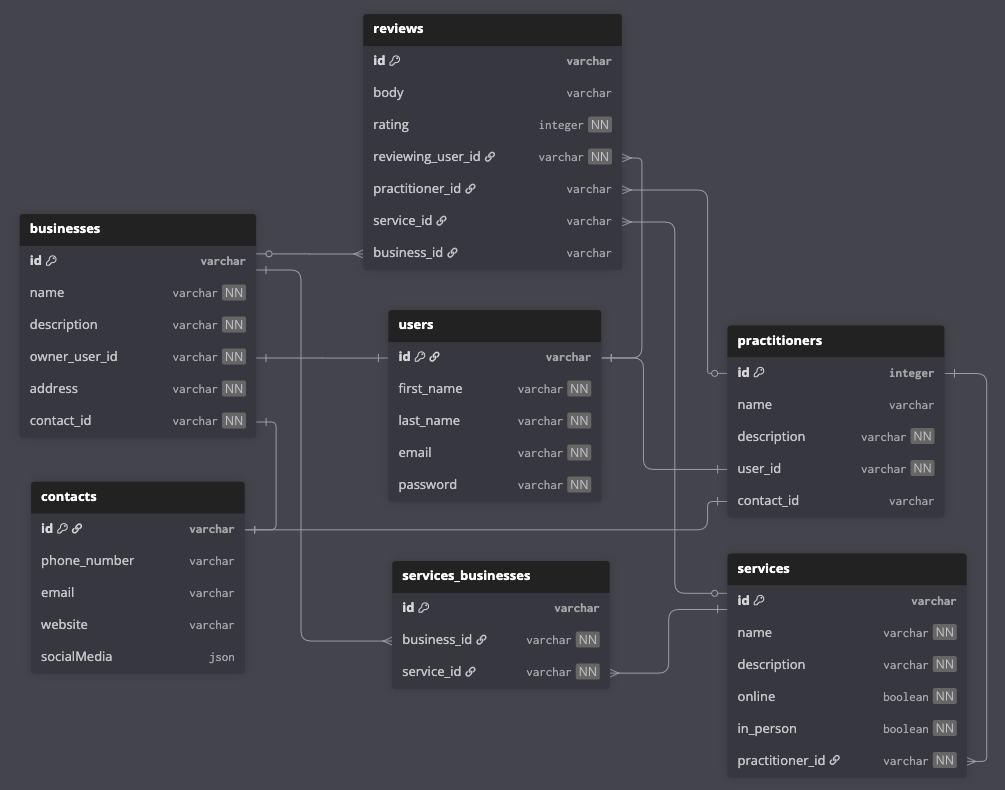
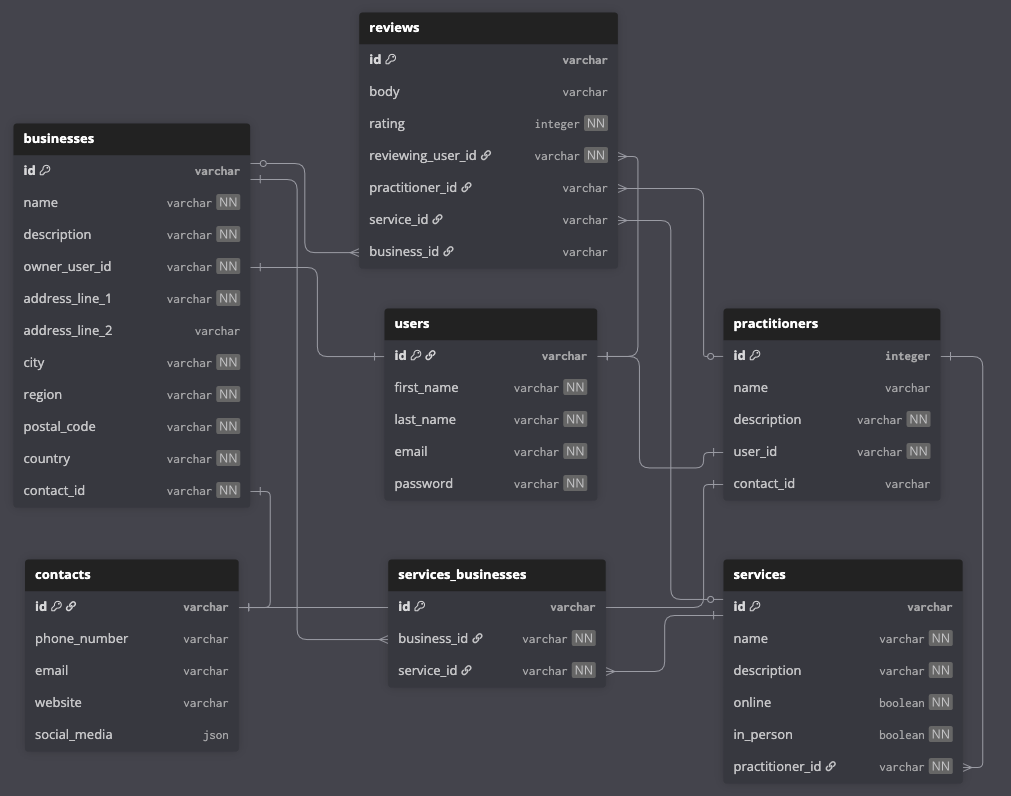
Formats README. Updates address in db diagram

diff --git a/docs/db-diagram-text.md b/docs/db-diagram-text.md
@@ -1,61 +1,66 @@
 DB diagram created using https://dbdiagram.io/d
 
 Table users {
-  id varchar [pk]
-  first_name varchar [not null]
-  last_name varchar [not null]
-  email varchar [unique, not null]
-  password varchar [not null]
+id varchar [pk]
+first_name varchar [not null]
+last_name varchar [not null]
+email varchar [unique, not null]
+password varchar [not null]
 }
 
 Table practitioners {
-  id integer [pk]
-  name varchar
-  description varchar [not null]
-  user_id varchar [not null]
-  contact_id varchar
+id integer [pk]
+name varchar
+description varchar [not null]
+user_id varchar [not null]
+contact_id varchar
 }
 
 Table contacts {
-  id varchar [pk]
-  phone_number varchar
-  email varchar
-  website varchar
-  socialMedia json
+id varchar [pk]
+phone_number varchar
+email varchar
+website varchar
+social_media json
 }
 
 Table services {
-  id varchar [pk]
-  name varchar [not null]
-  description varchar [not null]
-  online boolean [not null]
-  in_person boolean [not null]
-  practitioner_id varchar [not null]
+id varchar [pk]
+name varchar [not null]
+description varchar [not null]
+online boolean [not null]
+in_person boolean [not null]
+practitioner_id varchar [not null]
 }
 
 Table reviews {
-  id varchar [pk]
-  body varchar 
-  rating integer [not null]
-  reviewing_user_id varchar [not null]
-  practitioner_id varchar
-  service_id varchar
-  business_id varchar
+id varchar [pk]
+body varchar
+rating integer [not null]
+reviewing_user_id varchar [not null]
+practitioner_id varchar
+service_id varchar
+business_id varchar
 }
 
 Table businesses {
-  id varchar [pk]
-  name varchar [not null]
-  description varchar [not null]
-  owner_user_id varchar [not null]
-  address varchar [not null]
-  contact_id varchar [not null]
+id varchar [pk]
+name varchar [not null]
+description varchar [not null]
+owner_user_id varchar [not null]
+address_line_1 varchar [not null]
+address_line_2 varchar
+city varchar [not null]
+region varchar [not null]
+postal_code varchar [not null]
+country varchar [not null]
+contact_id varchar [not null]
 }
 
 Table services_businesses {
-  id varchar [pk]
-  business_id varchar [not null]
-  service_id varchar [not null]
+id varchar [pk]
+business_id varchar [not null]
+service_id varchar [not null]
 }
 
 Ref: practitioners.user_id - users.id

diff --git a/README.md b/README.md
@@ -3,11 +3,13 @@
 A personal project to help spiritual and metaphysical practitioners and users connect.
 
 The app is serves a few purposes:
+
 - search for local services as they are difficult to find if you are not part of the local community
 - reviews allow users to choose quality practitioners and businesses and avoid frauds
 - helps practitioners to be discovered as many don't have physical locations or may work out of multiple locations
 
 ### Tech Stack
+
 - Node.js
 - TypeScript
 - Express
@@ -17,6 +19,7 @@ The app is serves a few purposes:
 - Supertest
 
 ### Database
+
 The database structure has been designed for maximum flexibility. Allowing Users of all kinds from basic Users to Practitioners and Business owners. As the reality is that Practitioners often offer multiple different services and are associated with multiple different local businesses or none at all.
 
 ![Database diagram](./docs/db-diagram.png)
